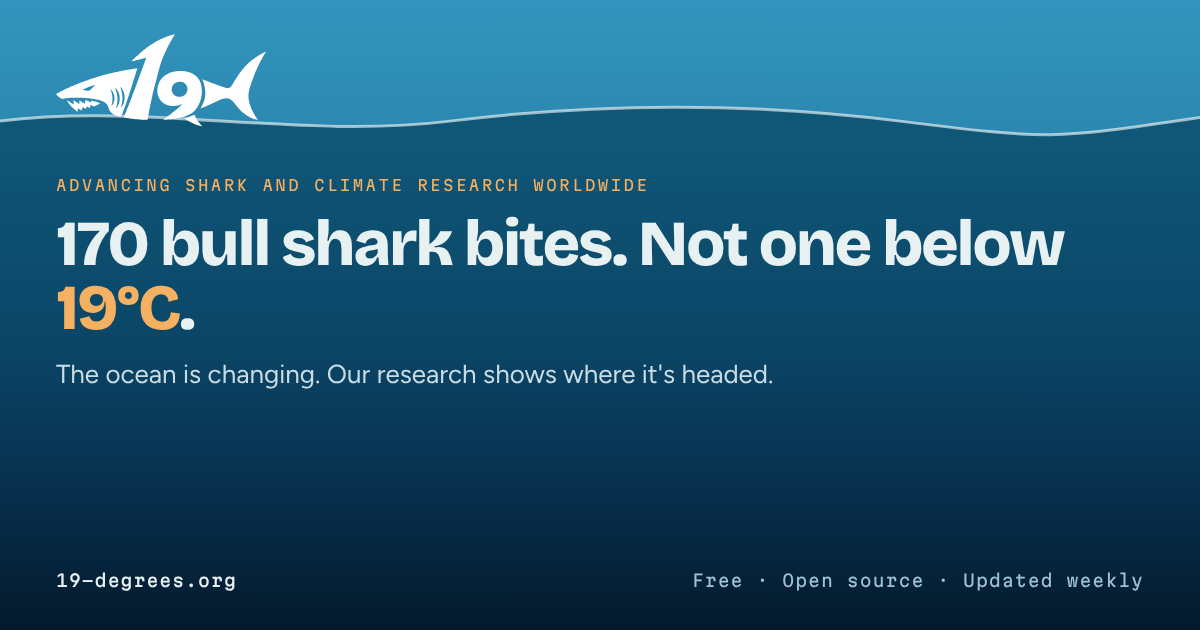
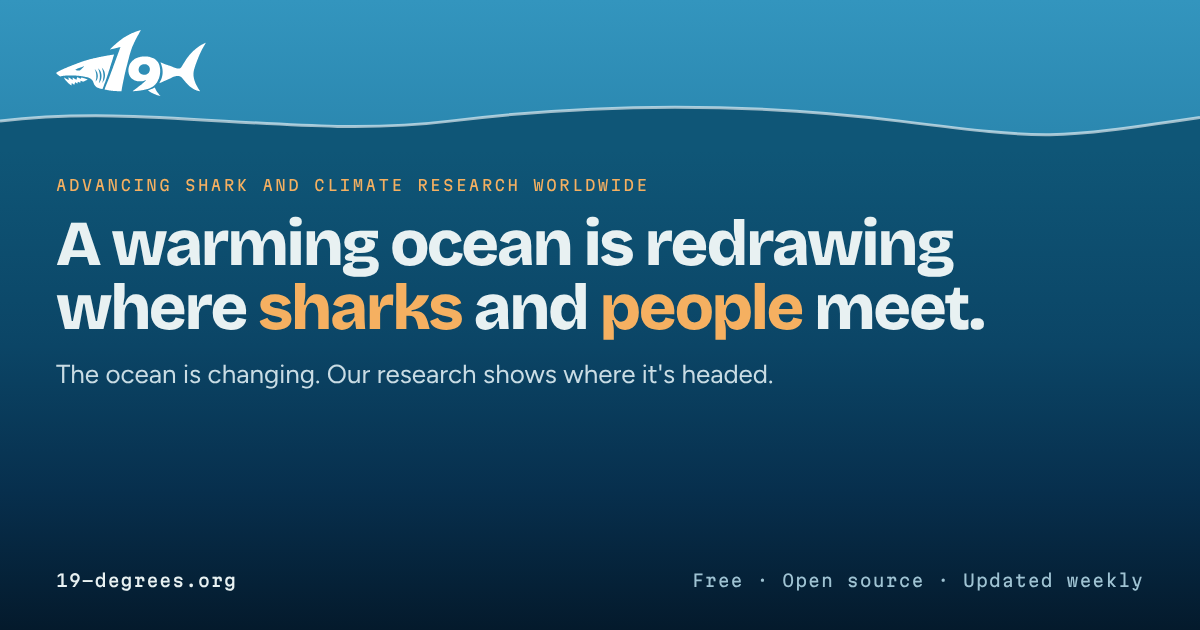
Link previews: global headline and description; smaller shark above the waterline

Changed region(s): [[0.0308, 0.3317, 0.8942, 0.5429], [0.0308, 0.0302, 0.2158, 0.2111]]

diff --git a/index.html b/index.html
@@ -14,20 +14,20 @@
 <!-- Link previews: LinkedIn, Facebook, Slack, iMessage, WhatsApp -->
 <meta property="og:type" content="website">
 <meta property="og:site_name" content="19 Degrees">
-<meta property="og:title" content="170 bull shark bites. Not one below 19°C.">
-<meta property="og:description" content="Warmer water is changing where sharks and people meet. 19 Degrees maps it, puts safety claims to the test, and stands up for both.">
+<meta property="og:title" content="A warming ocean is redrawing where sharks and people meet.">
+<meta property="og:description" content="Seas are warming on every coast. 19 Degrees brings scattered shark, climate and safety research into one open harbor and tests every claim in public.">
 <meta property="og:url" content="https://19-degrees.org/">
-<meta property="og:image" content="https://19-degrees.org/share/link-card.png?v=445f122e">
+<meta property="og:image" content="https://19-degrees.org/share/link-card.png?v=724b3ed6">
 <meta property="og:image:width" content="1200">
 <meta property="og:image:height" content="630">
-<meta property="og:image:alt" content="19 Degrees: 170 bull shark bites. Not one below 19°C.">
+<meta property="og:image:alt" content="19 Degrees: A warming ocean is redrawing where sharks and people meet.">
 <meta property="og:locale" content="en_US">
 
 <!-- X / Twitter, Bluesky -->
 <meta name="twitter:card" content="summary_large_image">
-<meta name="twitter:title" content="170 bull shark bites. Not one below 19°C.">
-<meta name="twitter:description" content="Warmer water is changing where sharks and people meet. 19 Degrees maps it, puts safety claims to the test, and stands up for both.">
-<meta name="twitter:image" content="https://19-degrees.org/share/link-card.png?v=445f122e">
+<meta name="twitter:title" content="A warming ocean is redrawing where sharks and people meet.">
+<meta name="twitter:description" content="Seas are warming on every coast. 19 Degrees brings scattered shark, climate and safety research into one open harbor and tests every claim in public.">
+<meta name="twitter:image" content="https://19-degrees.org/share/link-card.png?v=724b3ed6">
 
 <!-- Icons -->
 <link rel="icon" href="favicon.ico" sizes="any">

diff --git a/src/launch/head.html b/src/launch/head.html
@@ -8,19 +8,19 @@
 <!-- Link previews: LinkedIn, Facebook, Slack, iMessage, WhatsApp -->
 <meta property="og:type" content="website">
 <meta property="og:site_name" content="19 Degrees">
-<meta property="og:title" content="170 bull shark bites. Not one below 19°C.">
-<meta property="og:description" content="Warmer water is changing where sharks and people meet. 19 Degrees maps it, puts safety claims to the test, and stands up for both.">
+<meta property="og:title" content="A warming ocean is redrawing where sharks and people meet.">
+<meta property="og:description" content="Seas are warming on every coast. 19 Degrees brings scattered shark, climate and safety research into one open harbor and tests every claim in public.">
 <meta property="og:url" content="https://YOUR-SITE/">
 <meta property="og:image" content="https://YOUR-SITE/share/link-card.png">
 <meta property="og:image:width" content="1200">
 <meta property="og:image:height" content="630">
-<meta property="og:image:alt" content="19 Degrees: 170 bull shark bites. Not one below 19°C.">
+<meta property="og:image:alt" content="19 Degrees: A warming ocean is redrawing where sharks and people meet.">
 <meta property="og:locale" content="en_US">
 
 <!-- X / Twitter, Bluesky -->
 <meta name="twitter:card" content="summary_large_image">
-<meta name="twitter:title" content="170 bull shark bites. Not one below 19°C.">
-<meta name="twitter:description" content="Warmer water is changing where sharks and people meet. 19 Degrees maps it, puts safety claims to the test, and stands up for both.">
+<meta name="twitter:title" content="A warming ocean is redrawing where sharks and people meet.">
+<meta name="twitter:description" content="Seas are warming on every coast. 19 Degrees brings scattered shark, climate and safety research into one open harbor and tests every claim in public.">
 <meta name="twitter:image" content="https://YOUR-SITE/share/link-card.png">
 
 <!-- Icons -->

diff --git a/src/share19.py b/src/share19.py
@@ -50,11 +50,11 @@ cards = {
 }
 cards_html = {k: (1080, 1350, v) for k, v in cards.items()}
 cards_html["link-card.png"] = (1200, 630, f"""<style>:root{{--s:150px}}body{{width:1200px;height:630px}}{CSS}
-.logo{{left:56px;top:34px;width:210px}}.p{{position:absolute;inset:176px 56px 40px 56px;display:flex;flex-direction:column;gap:18px}}
+.logo{{left:56px;top:30px;width:150px}}.p{{position:absolute;inset:176px 56px 40px 56px;display:flex;flex-direction:column;gap:18px}}
 h1{{font-size:64px}}p{{font-size:26px;color:#C9DCE4}}
 .mk{{font-family:"Martian Mono",monospace;font-size:15px;letter-spacing:.16em;text-transform:uppercase;color:#F5B061}}
 .ft{{margin-top:auto;display:flex;justify-content:space-between;align-items:flex-end;font-family:"Martian Mono",monospace;font-size:17px;letter-spacing:.06em;color:#9FC3D3}}.ft b{{color:#E8F1F2;font-weight:500}}</style>{WAVE}<div class="logo">{logo}</div>
-<div class="p"><div class="mk">Advancing shark and climate research worldwide</div><h1>{bull['n']} bull shark bites. Not one below <em>19°C</em>.</h1><p>The ocean is changing. Our research shows where it's headed.</p><div class="ft"><b>19-degrees.org</b><span>Free · Open source · Updated weekly</span></div></div>""")
+<div class="p"><div class="mk">Advancing shark and climate research worldwide</div><h1>A warming ocean is redrawing where <em>sharks</em> and <em>people</em> meet.</h1><p>The ocean is changing. Our research shows where it's headed.</p><div class="ft"><b>19-degrees.org</b><span>Free · Open source · Updated weekly</span></div></div>""")
 
 for name, (w, h, body) in cards_html.items():
     tmp = tempfile.NamedTemporaryFile("w", suffix=".html", delete=False); tmp.write('<!doctype html><meta charset="utf-8">' + body); tmp.close()
